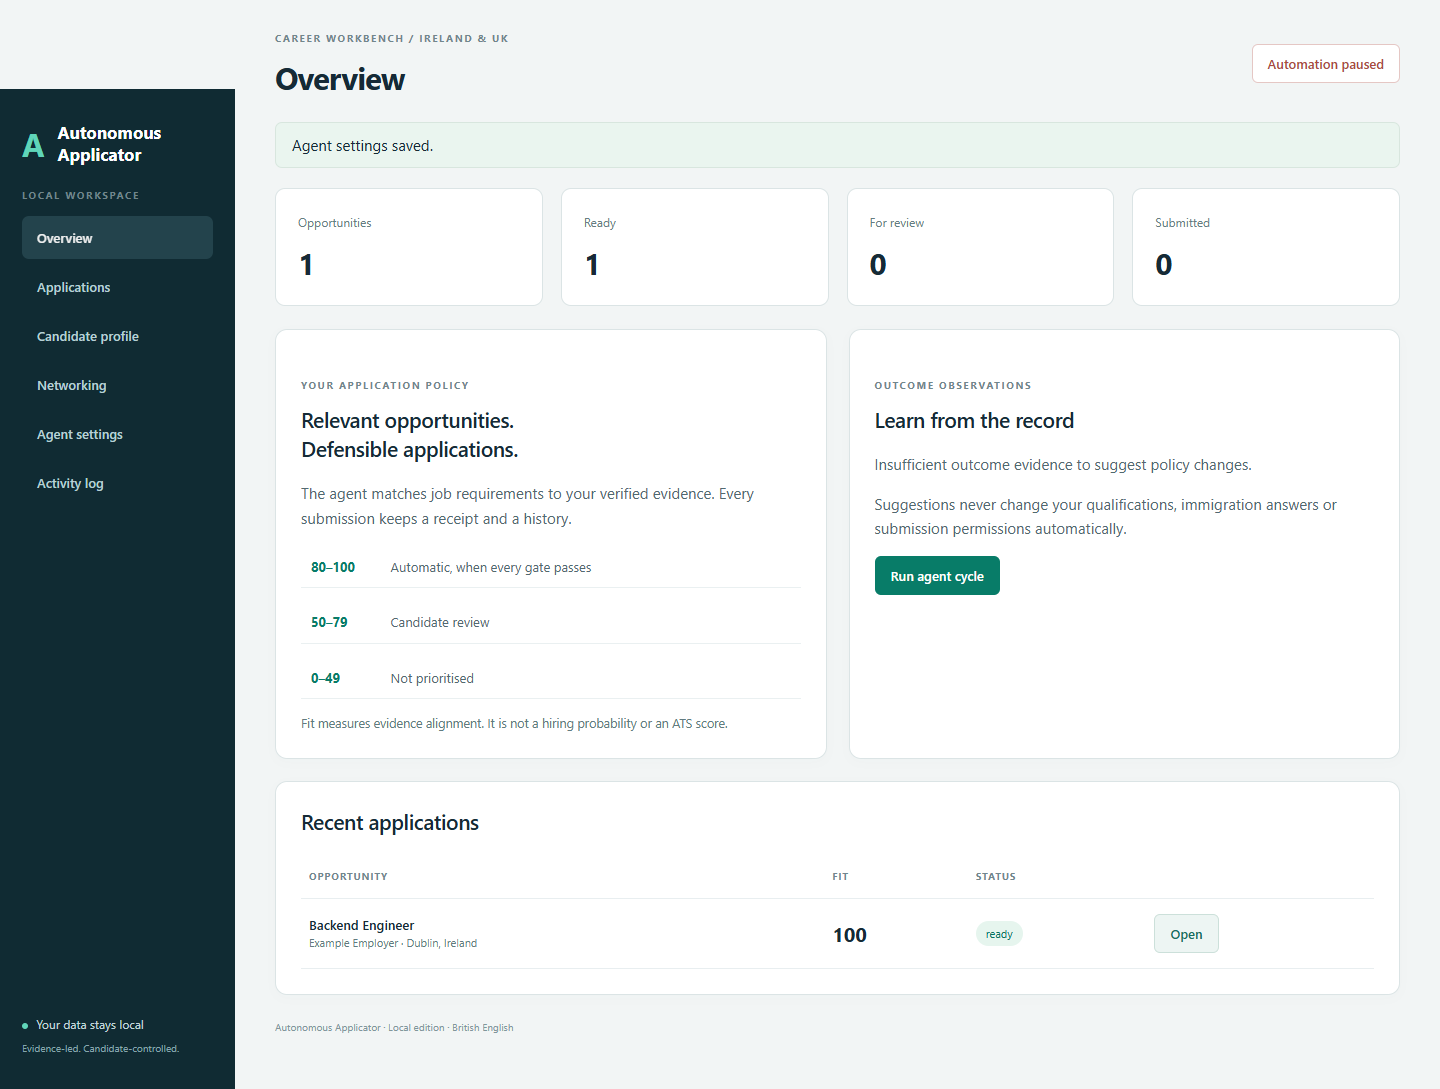
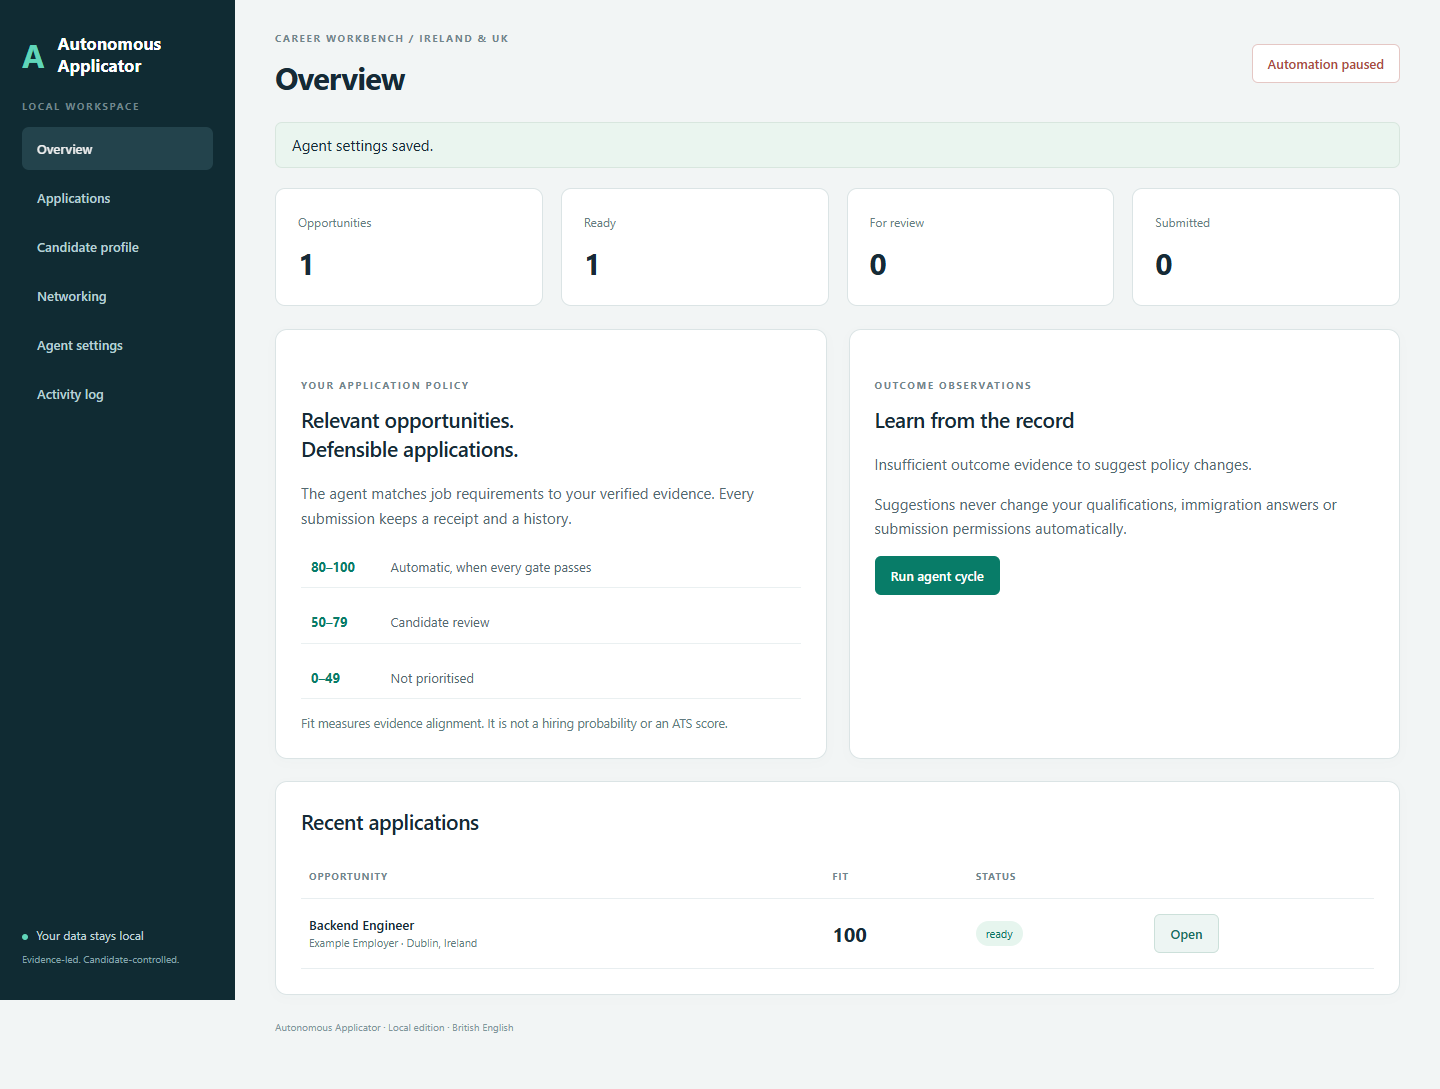
fix: stabilise browser navigation and cross-platform coverage

Changed region(s): [[0.0, 0.0, 0.1875, 0.4059], [0.0, 0.843, 0.1875, 1.0], [0.0312, 0.4371, 0.0625, 0.4683]]

diff --git a/src/applicator/static/app.js b/src/applicator/static/app.js
@@ -73,6 +73,7 @@ function view(name) {
     settings: "Agent settings",
     activity: "Activity log",
   }[name];
+  window.scrollTo({ top: 0, left: 0, behavior: "instant" });
 }
 all("[data-view]").forEach(
   (button) => (button.onclick = () => view(button.dataset.view)),

diff --git a/tests/test_browser.py b/tests/test_browser.py
@@ -119,6 +119,7 @@ def test_dashboard_full_journey(data, profile, tmp_path):
         page.get_by_role("button", name="Save agent settings").click()
         page.get_by_text("Agent settings saved.").wait_for()
         page.get_by_role("button", name="Overview", exact=True).click()
+        page.evaluate("window.scrollTo({top:0,left:0,behavior:'instant'})")
         page.screenshot(path=str(tmp_path / "dashboard.png"), full_page=True)
         assert not errors
         browser.close()
